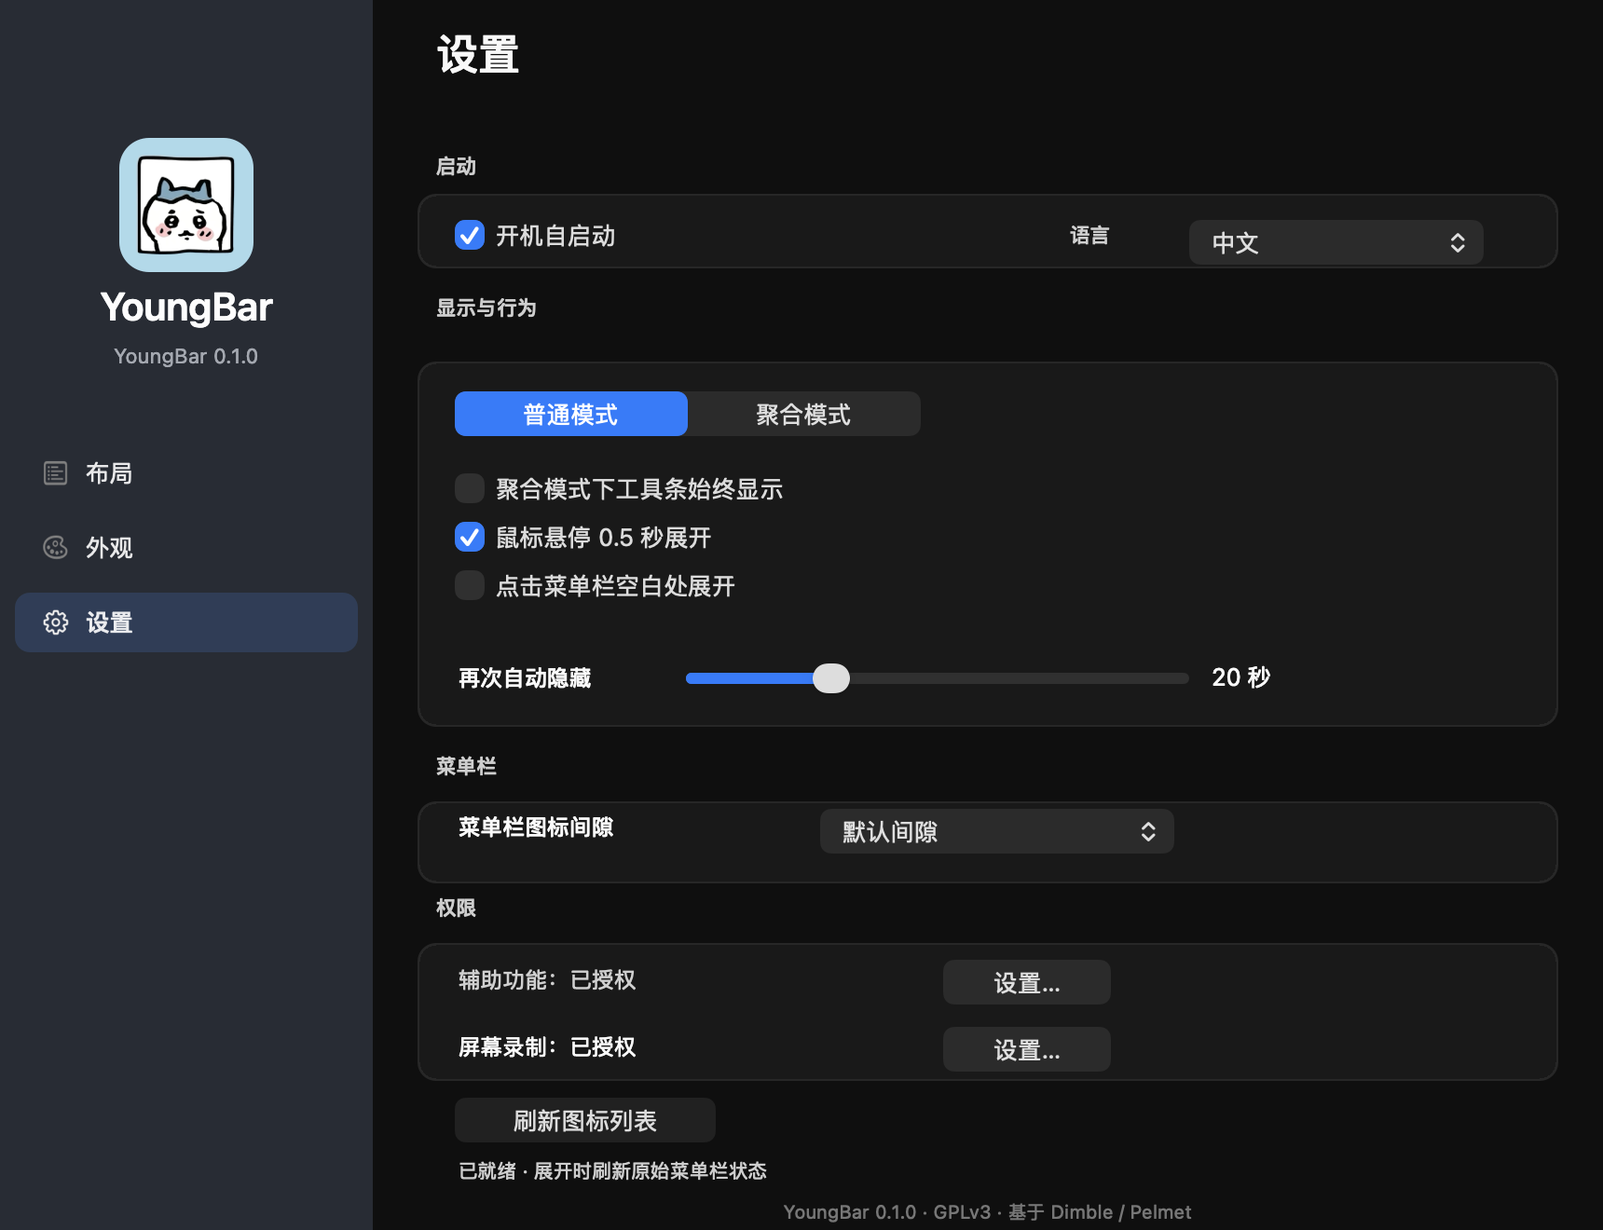
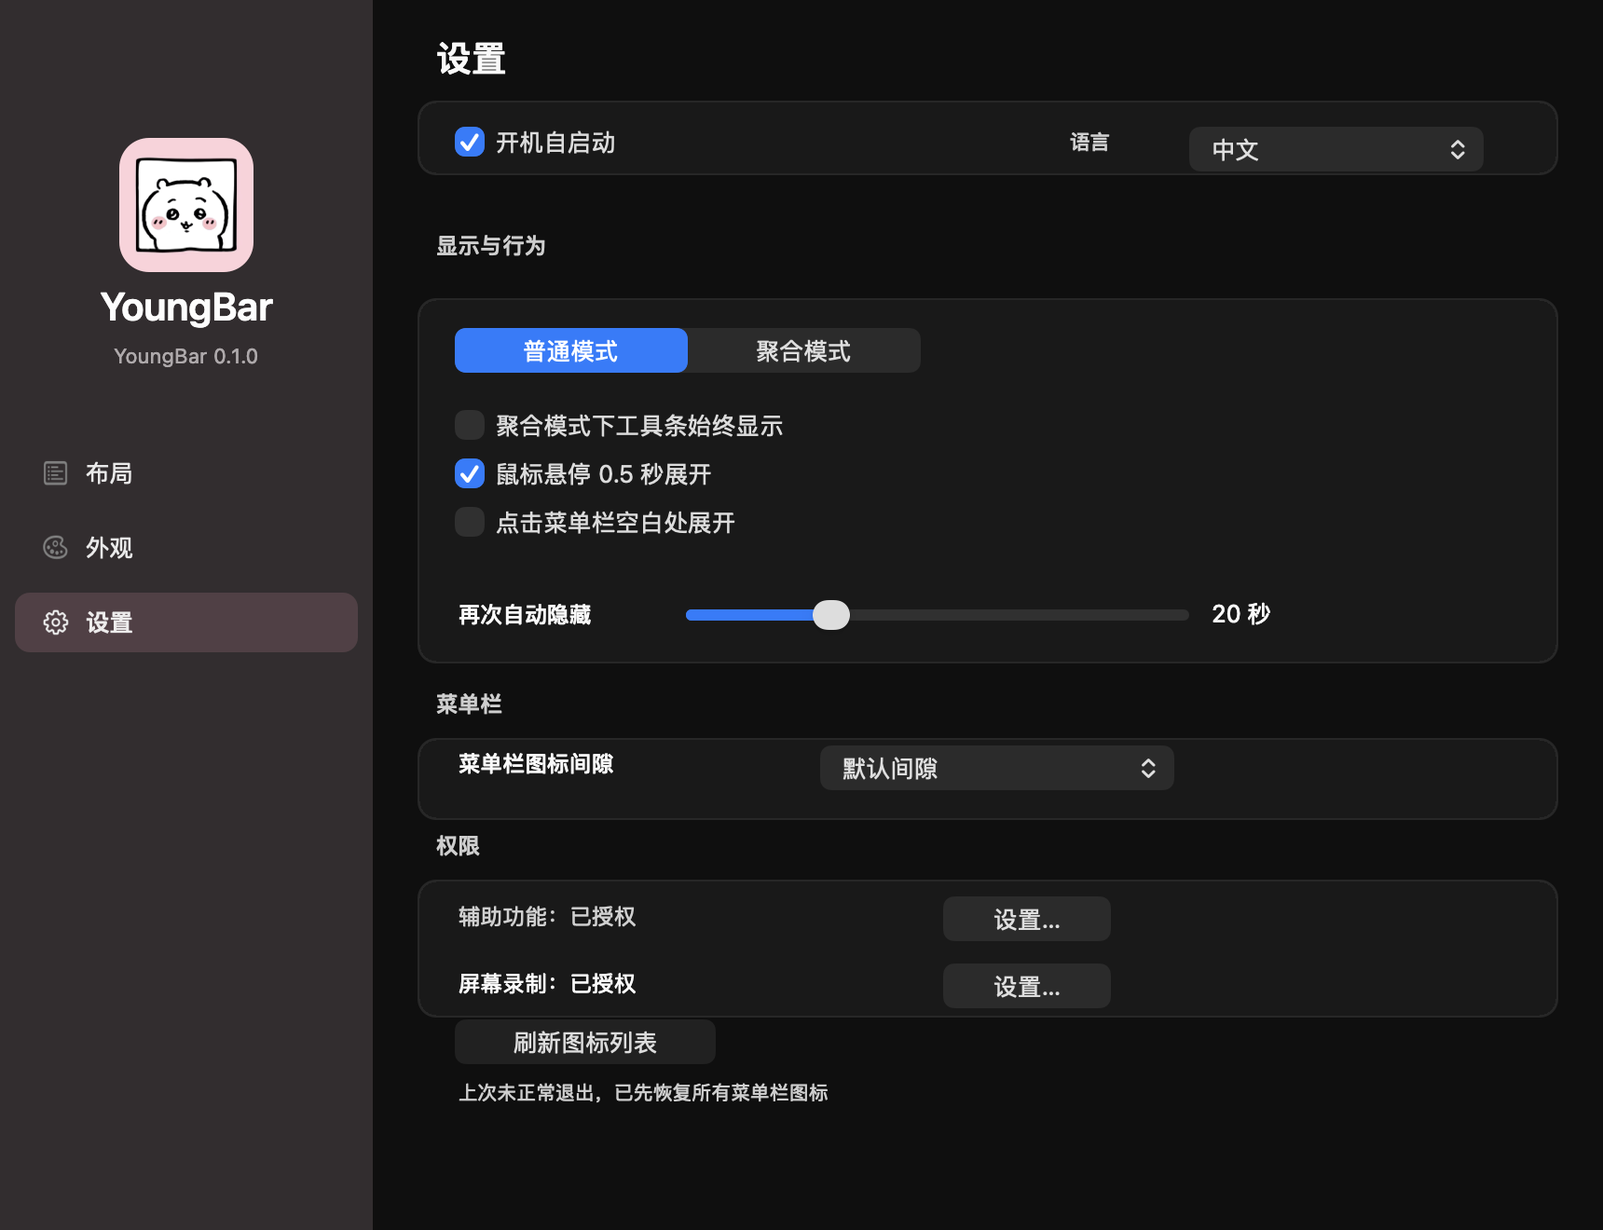
style(youngbar): 固定标题栏与外观页三块信息架构
- header 缩小到 64pt，去掉副标题和重复块标题
- 修正 NSScrollView 顶部 inset 裁切/滚动错位
- 外观页：Appearance / 菜单栏按钮 / Theme 三块
- 主题行标签/控件对齐，预览改为卡片底部居中示意
- 更新截图与第 146 轮日志

diff --git a/Sources/YoungBar/BarSettings.swift b/Sources/YoungBar/BarSettings.swift
@@ -68,7 +68,7 @@ final class BarSettings: NSObject, NSTableViewDataSource, NSTableViewDelegate {
     private let appIconView = NSImageView()
     private let headerBar = SettingsHeader()
     private let headerTitle = NSTextField(labelWithString: "")
-    private let headerSubtitle = NSTextField(labelWithString: "")
+    private let contentScroll = SettingsScrollView()
     private var colorButtons: [ThemeSwatchButton] = []
     private let preview = ThemePreviewView()
     private var iconButtons: [NSButton] = []
@@ -91,8 +91,11 @@ final class BarSettings: NSObject, NSTableViewDataSource, NSTableViewDelegate {
         window.isMovableByWindowBackground = true
         window.ignoresMouseEvents = false
         window.minSize = NSSize(width: 860, height: 560)
+        window.maxSize = NSSize(width: 860, height: 660)
         window.center()
         window.contentView = buildRoot()
+        NotificationCenter.default.addObserver(self, selector: #selector(windowResized),
+                                               name: NSWindow.didResizeNotification, object: window)
         selectPage("general")
     }
 
@@ -166,32 +169,30 @@ final class BarSettings: NSObject, NSTableViewDataSource, NSTableViewDelegate {
             navButtons[item.0] = button
         }
 
-        let content = NSView(frame: NSRect(x: 0, y: 0, width: 660, height: 692))
+        let content = NSView(frame: NSRect(x: 0, y: 0, width: 660, height: 628))
         content.wantsLayer = true
         content.layer?.backgroundColor = NSColor.clear.cgColor
 
-        let scroll = NSScrollView(frame: NSRect(x: 200, y: 0, width: 660, height: 692))
-        scroll.drawsBackground = false
-        scroll.hasVerticalScroller = true
-        scroll.autohidesScrollers = true
-        scroll.verticalScrollElasticity = .allowed
-        scroll.documentView = content
-        scroll.autoresizingMask = [.width, .height]
-        root.addSubview(scroll)
+        contentScroll.frame = NSRect(x: 200, y: 0, width: 660, height: 660)
+        contentScroll.drawsBackground = false
+        contentScroll.automaticallyAdjustsContentInsets = false
+        contentScroll.contentInsets = NSEdgeInsetsZero
+        contentScroll.scrollerInsets = NSEdgeInsets(top: 32, left: 0, bottom: 0, right: 0)
+        contentScroll.hasVerticalScroller = true
+        contentScroll.autohidesScrollers = true
+        contentScroll.verticalScrollElasticity = .allowed
+        contentScroll.documentView = content
+        contentScroll.autoresizingMask = [.width, .height]
+        root.addSubview(contentScroll)
 
-        headerBar.frame = NSRect(x: 200, y: 692 - 84, width: 660, height: 84)
+        headerBar.frame = NSRect(x: 200, y: 692 - 64, width: 660, height: 64)
         headerBar.autoresizingMask = [.width, .minYMargin]
         root.addSubview(headerBar)
 
-        headerTitle.frame = NSRect(x: 32, y: 40, width: 596, height: 30)
-        headerTitle.font = .systemFont(ofSize: 24, weight: .semibold)
+        headerTitle.frame = NSRect(x: 32, y: 19, width: 596, height: 26)
+        headerTitle.font = .systemFont(ofSize: 20, weight: .semibold)
         headerTitle.textColor = .labelColor
         headerBar.addSubview(headerTitle)
-
-        headerSubtitle.frame = NSRect(x: 32, y: 18, width: 596, height: 18)
-        headerSubtitle.font = .systemFont(ofSize: 11)
-        headerSubtitle.textColor = .secondaryLabelColor
-        headerBar.addSubview(headerSubtitle)
 
         generalPage.frame = content.bounds
         layoutPage.frame = content.bounds
@@ -208,35 +209,34 @@ final class BarSettings: NSObject, NSTableViewDataSource, NSTableViewDelegate {
     private func buildGeneralPage() {
 
         // Startup
-        generalPage.addSubview(sectionLabel(L10n.t("启动", "Startup"), y: 562))
-        generalPage.addSubview(card(y: 516, height: 40))
+        generalPage.addSubview(card(y: 566, height: 40))
         loginCheck.target = self
         loginCheck.action = #selector(loginChanged)
-        loginCheck.frame = NSRect(x: 44, y: 522, width: 300, height: 24)
+        loginCheck.frame = NSRect(x: 44, y: 572, width: 300, height: 24)
         generalPage.addSubview(loginCheck)
 
         let languageLabel = label(L10n.t("语言", "Language"),
-                                  NSRect(x: 372, y: 525, width: 62, height: 16),
+                                  NSRect(x: 372, y: 575, width: 62, height: 16),
                                   .systemFont(ofSize: 11, weight: .medium))
         languageLabel.textColor = .secondaryLabelColor
         generalPage.addSubview(languageLabel)
         languagePopup.addItems(withTitles: ["中文", "English"])
         languagePopup.target = self
         languagePopup.action = #selector(languageChanged)
-        languagePopup.frame = NSRect(x: 438, y: 516, width: 158, height: 28)
+        languagePopup.frame = NSRect(x: 438, y: 566, width: 158, height: 28)
         generalPage.addSubview(languagePopup)
 
         // Display & behaviour
-        generalPage.addSubview(sectionLabel(L10n.t("显示与行为", "Display & Behaviour"), y: 486))
-        generalPage.addSubview(card(y: 270, height: 196))
+        generalPage.addSubview(sectionLabel(L10n.t("显示与行为", "Display & Behaviour"), y: 520))
+        generalPage.addSubview(card(y: 304, height: 196))
         modeControl.target = self
         modeControl.action = #selector(modeChanged)
-        modeControl.frame = NSRect(x: 44, y: 424, width: 250, height: 28)
+        modeControl.frame = NSRect(x: 44, y: 458, width: 250, height: 28)
         modeControl.toolTip = L10n.t("聚合模式把收纳项收进一条工具条。",
                                      "Aggregate mode collects concealed items into one strip.")
         generalPage.addSubview(modeControl)
 
-        var y: CGFloat = 386
+        var y: CGFloat = 420
         for (check, key) in [(keepCheck, "keepShelfOpen"), (hoverCheck, "hoverExpand"), (blankCheck, "blankClick")] {
             check.target = self
             check.action = #selector(optionChanged(_:))
@@ -247,73 +247,66 @@ final class BarSettings: NSObject, NSTableViewDataSource, NSTableViewDelegate {
         }
 
         generalPage.addSubview(label(L10n.t("再次自动隐藏", "Auto-hide after"),
-                                     NSRect(x: 44, y: 286, width: 120, height: 18),
+                                     NSRect(x: 44, y: 320, width: 120, height: 18),
                                      .systemFont(ofSize: 12, weight: .medium)))
         delaySlider.target = self
         delaySlider.action = #selector(delayChanged)
         delaySlider.isContinuous = true
-        delaySlider.frame = NSRect(x: 168, y: 284, width: 270, height: 24)
+        delaySlider.frame = NSRect(x: 168, y: 318, width: 270, height: 24)
         delaySlider.toolTip = L10n.t("点击收纳项后，它在菜单栏上保持原生的时长。",
                                      "How long a clicked item stays native on the bar.")
         generalPage.addSubview(delaySlider)
-        delayValue.frame = NSRect(x: 448, y: 287, width: 80, height: 18)
+        delayValue.frame = NSRect(x: 448, y: 321, width: 80, height: 18)
         generalPage.addSubview(delayValue)
 
         // Menu bar
-        generalPage.addSubview(sectionLabel(L10n.t("菜单栏", "Menu Bar"), y: 240))
-        generalPage.addSubview(card(y: 186, height: 44))
+        generalPage.addSubview(sectionLabel(L10n.t("菜单栏", "Menu Bar"), y: 274))
+        generalPage.addSubview(card(y: 220, height: 44))
         generalPage.addSubview(label(L10n.t("菜单栏图标间隙", "Menu-bar icon spacing"),
-                                     NSRect(x: 44, y: 206, width: 190, height: 18),
+                                     NSRect(x: 44, y: 240, width: 190, height: 18),
                                      .systemFont(ofSize: 12, weight: .medium)))
         spacingPopup.addItems(withTitles: [L10n.t("默认间隙", "Default"), L10n.t("较小间隙", "Smaller"),
                                            L10n.t("小间隙", "Small"), L10n.t("无间隙", "None")])
         spacingPopup.target = self
         spacingPopup.action = #selector(spacingChanged)
-        spacingPopup.frame = NSRect(x: 240, y: 200, width: 190, height: 28)
+        spacingPopup.frame = NSRect(x: 240, y: 234, width: 190, height: 28)
         spacingPopup.toolTip = L10n.t("写入全局偏好，重启电脑后生效。",
                                       "Writes a global preference; takes effect after a reboot.")
         generalPage.addSubview(spacingPopup)
 
         // Permissions
-        generalPage.addSubview(sectionLabel(L10n.t("权限", "Permissions"), y: 164))
-        generalPage.addSubview(card(y: 80, height: 74))
-        axStatus.frame = NSRect(x: 44, y: 124, width: 360, height: 18)
+        generalPage.addSubview(sectionLabel(L10n.t("权限", "Permissions"), y: 198))
+        generalPage.addSubview(card(y: 114, height: 74))
+        axStatus.frame = NSRect(x: 44, y: 158, width: 360, height: 18)
         axStatus.font = .systemFont(ofSize: 12)
         axStatus.toolTip = L10n.t("权限属于 YoungBar 这个 app，不是终端或 DSH；首次使用需要在系统设置中打开。",
                                   "This permission belongs to the YoungBar app, not the terminal or DSH; enable it in System Settings on first use.")
         generalPage.addSubview(axStatus)
         axButton.target = self
         axButton.action = #selector(axTapped)
-        axButton.frame = NSRect(x: 306, y: 118, width: 90, height: 30)
+        axButton.frame = NSRect(x: 306, y: 152, width: 90, height: 30)
         generalPage.addSubview(axButton)
 
-        captureStatus.frame = NSRect(x: 44, y: 88, width: 360, height: 18)
+        captureStatus.frame = NSRect(x: 44, y: 122, width: 360, height: 18)
         captureStatus.font = .systemFont(ofSize: 12)
         captureStatus.toolTip = L10n.t("权限属于 YoungBar 这个 app；授权后可能需要重启 app 才能抓取原始图标。",
                                        "This permission belongs to the YoungBar app; restart it after granting to capture original icons.")
         generalPage.addSubview(captureStatus)
         captureButton.target = self
         captureButton.action = #selector(captureTapped)
-        captureButton.frame = NSRect(x: 306, y: 82, width: 90, height: 30)
+        captureButton.frame = NSRect(x: 306, y: 116, width: 90, height: 30)
         generalPage.addSubview(captureButton)
 
         refreshButton.target = self
         refreshButton.action = #selector(refreshTapped)
-        refreshButton.frame = NSRect(x: 44, y: 44, width: 140, height: 30)
+        refreshButton.frame = NSRect(x: 44, y: 86, width: 140, height: 30)
         generalPage.addSubview(refreshButton)
 
-        messageField.frame = NSRect(x: 44, y: 18, width: 584, height: 20)
+        messageField.frame = NSRect(x: 44, y: 60, width: 584, height: 20)
         messageField.textColor = .secondaryLabelColor
         messageField.font = .systemFont(ofSize: 10.5)
         generalPage.addSubview(messageField)
 
-        let version = label(L10n.t("YoungBar 0.1.0 · GPLv3 · 基于 Dimble / Pelmet",
-                                   "YoungBar 0.1.0 · GPLv3 · Built on Dimble / Pelmet"),
-                            NSRect(x: 32, y: 2, width: 596, height: 14),
-                            .systemFont(ofSize: 10))
-        version.alignment = .center
-        version.textColor = .tertiaryLabelColor
-        generalPage.addSubview(version)
     }
 
     private func sectionLine(y: CGFloat) -> NSBox {
@@ -379,19 +372,18 @@ final class BarSettings: NSObject, NSTableViewDataSource, NSTableViewDelegate {
 
     private func buildAppearancePage() {
         // Appearance
-        appearancePage.addSubview(sectionLabel(L10n.t("外观", "Appearance"), y: 562))
-        appearancePage.addSubview(card(y: 512, height: 44))
+        appearancePage.addSubview(card(y: 546, height: 44))
         appearanceModeControl.target = self
         appearanceModeControl.action = #selector(appearanceModeChanged)
-        appearanceModeControl.frame = NSRect(x: 44, y: 520, width: 300, height: 28)
+        appearanceModeControl.frame = NSRect(x: 44, y: 554, width: 300, height: 28)
         appearancePage.addSubview(appearanceModeControl)
 
         // Menu-bar button
-        appearancePage.addSubview(sectionLabel(L10n.t("菜单栏按钮", "Menu-bar button"), y: 486))
-        appearancePage.addSubview(card(y: 390, height: 90))
+        appearancePage.addSubview(sectionLabel(L10n.t("菜单栏按钮", "Menu-bar button"), y: 520))
+        appearancePage.addSubview(card(y: 424, height: 90))
         for (index, symbol) in ControlIcon.symbols.enumerated() {
             let button = NSButton(title: "", target: self, action: #selector(iconPicked(_:)))
-            button.frame = NSRect(x: 44 + CGFloat(index) * 54, y: 438, width: 40, height: 40)
+            button.frame = NSRect(x: 44 + CGFloat(index) * 54, y: 464, width: 40, height: 40)
             button.isBordered = false
             button.wantsLayer = true
             button.layer?.cornerRadius = 8
@@ -409,36 +401,36 @@ final class BarSettings: NSObject, NSTableViewDataSource, NSTableViewDelegate {
         customIconButton.title = L10n.t("自定义图片…", "Custom image…")
         customIconButton.target = self
         customIconButton.action = #selector(customIconTapped)
-        customIconButton.frame = NSRect(x: 44, y: 400, width: 150, height: 30)
+        customIconButton.frame = NSRect(x: 44, y: 434, width: 150, height: 30)
         appearancePage.addSubview(customIconButton)
 
         let reset = NSButton(title: L10n.t("恢复默认", "Reset"),
                              target: self, action: #selector(resetIcon))
-        reset.frame = NSRect(x: 202, y: 400, width: 100, height: 30)
+        reset.frame = NSRect(x: 202, y: 434, width: 100, height: 30)
         appearancePage.addSubview(reset)
 
         removeCustomButton.title = L10n.t("移除自定义", "Remove custom")
         removeCustomButton.target = self
         removeCustomButton.action = #selector(removeCustomTapped)
-        removeCustomButton.frame = NSRect(x: 310, y: 400, width: 120, height: 30)
+        removeCustomButton.frame = NSRect(x: 310, y: 434, width: 120, height: 30)
         appearancePage.addSubview(removeCustomButton)
 
         // Theme: palette, scope, strip and preview in one group.
-        appearancePage.addSubview(sectionLabel(L10n.t("主题", "Theme"), y: 370))
-        appearancePage.addSubview(card(y: 40, height: 322))
-        for y in [276, 204, 132] {
+        appearancePage.addSubview(sectionLabel(L10n.t("主题", "Theme"), y: 400))
+        appearancePage.addSubview(card(y: 74, height: 310))
+        for y in [298, 226, 154] {
             let line = NSBox(frame: NSRect(x: 44, y: CGFloat(y), width: 572, height: 1))
             line.boxType = .separator
             appearancePage.addSubview(line)
         }
 
-        appearancePage.addSubview(label(L10n.t("主题色", "Colour"),
-                                        NSRect(x: 44, y: 316, width: 120, height: 18),
+        appearancePage.addSubview(label(L10n.t("配色", "Colour"),
+                                        NSRect(x: 44, y: 330, width: 120, height: 18),
                                         .systemFont(ofSize: 12, weight: .medium)))
         for (index, theme) in ThemeColor.allCases.enumerated() {
             let x = 196 + CGFloat(index) * 90
             let button = ThemeSwatchButton(title: "", target: self, action: #selector(colorPicked(_:)))
-            button.frame = NSRect(x: x, y: 300, width: 46, height: 28)
+            button.frame = NSRect(x: x, y: 334, width: 46, height: 28)
             button.isBordered = false
             button.theme = theme
             button.tag = index
@@ -446,33 +438,30 @@ final class BarSettings: NSObject, NSTableViewDataSource, NSTableViewDelegate {
             button.setAccessibilityLabel(theme.title)
             colorButtons.append(button)
             appearancePage.addSubview(button)
-            let name = label(theme.title, NSRect(x: x - 22, y: 280, width: 90, height: 16),
+            let name = label(theme.title, NSRect(x: x - 22, y: 314, width: 90, height: 16),
                              .systemFont(ofSize: 10.5))
             name.alignment = .center
             name.textColor = .secondaryLabelColor
             appearancePage.addSubview(name)
         }
 
-        appearancePage.addSubview(label(L10n.t("主题应用", "Scope"),
-                                        NSRect(x: 44, y: 228, width: 120, height: 18),
+        appearancePage.addSubview(label(L10n.t("应用范围", "Apply to"),
+                                        NSRect(x: 44, y: 248, width: 120, height: 18),
                                         .systemFont(ofSize: 12, weight: .medium)))
         scopeControl.target = self
         scopeControl.action = #selector(scopeChanged)
-        scopeControl.frame = NSRect(x: 196, y: 220, width: 300, height: 28)
+        scopeControl.frame = NSRect(x: 196, y: 242, width: 300, height: 28)
         appearancePage.addSubview(scopeControl)
 
-        appearancePage.addSubview(label(L10n.t("收纳条", "Strip"),
-                                        NSRect(x: 44, y: 156, width: 120, height: 18),
+        appearancePage.addSubview(label(L10n.t("收纳条样式", "Strip style"),
+                                        NSRect(x: 44, y: 176, width: 120, height: 18),
                                         .systemFont(ofSize: 12, weight: .medium)))
         stripStyleControl.target = self
         stripStyleControl.action = #selector(stripStyleChanged)
-        stripStyleControl.frame = NSRect(x: 196, y: 148, width: 300, height: 28)
+        stripStyleControl.frame = NSRect(x: 196, y: 170, width: 300, height: 28)
         appearancePage.addSubview(stripStyleControl)
 
-        appearancePage.addSubview(label(L10n.t("预览", "Preview"),
-                                        NSRect(x: 44, y: 80, width: 120, height: 18),
-                                        .systemFont(ofSize: 12, weight: .medium)))
-        preview.frame = NSRect(x: 196, y: 66, width: 280, height: 40)
+        preview.frame = NSRect(x: 190, y: 94, width: 280, height: 40)
         appearancePage.addSubview(preview)
     }
 
@@ -512,7 +501,7 @@ final class BarSettings: NSObject, NSTableViewDataSource, NSTableViewDelegate {
     }
 
     private func sectionLabel(_ text: String, y: CGFloat) -> NSTextField {
-        let field = label(text, NSRect(x: 32, y: y, width: 300, height: 16), .systemFont(ofSize: 11, weight: .semibold))
+        let field = label(text, NSRect(x: 32, y: y, width: 300, height: 16), .systemFont(ofSize: 12, weight: .semibold))
         field.textColor = .secondaryLabelColor
         return field
     }
@@ -537,6 +526,13 @@ final class BarSettings: NSObject, NSTableViewDataSource, NSTableViewDelegate {
         selectPage(id)
     }
 
+    @objc private func windowResized() {
+        guard let document = contentScroll.documentView else { return }
+        let top = max(0, document.frame.height - contentScroll.contentView.bounds.height)
+        contentScroll.contentView.scroll(to: NSPoint(x: 0, y: top))
+        contentScroll.reflectScrolledClipView(contentScroll.contentView)
+    }
+
     private func selectPage(_ id: String) {
         currentPage = id
         generalPage.isHidden = id != "general"
@@ -546,18 +542,11 @@ final class BarSettings: NSObject, NSTableViewDataSource, NSTableViewDelegate {
         switch id {
         case "layout":
             headerTitle.stringValue = L10n.t("布局", "Layout")
-            headerSubtitle.stringValue = L10n.t("拖动行调整从左到右的顺序；勾选决定每一项的可见方式。",
-                                                "Drag rows to set the left-to-right order; tick how each item should appear.")
-            headerSubtitle.isHidden = false
             table.reloadData()
         case "appearance":
             headerTitle.stringValue = L10n.t("外观", "Appearance")
-            headerSubtitle.stringValue = ""
-            headerSubtitle.isHidden = true
         default:
             headerTitle.stringValue = L10n.t("设置", "Settings")
-            headerSubtitle.stringValue = ""
-            headerSubtitle.isHidden = true
         }
     }
 
@@ -838,6 +827,30 @@ final class LayoutRowView: NSTableRowView {
         let path = NSBezierPath(roundedRect: rect, xRadius: 8, yRadius: 8)
         NSColor.controlAccentColor.withAlphaComponent(0.16).setFill()
         path.fill()
+    }
+}
+
+@MainActor
+final class SettingsScrollView: NSScrollView {
+    override func viewDidMoveToWindow() {
+        super.viewDidMoveToWindow()
+        normalizeInsets()
+    }
+
+    override func layout() {
+        super.layout()
+        normalizeInsets()
+    }
+
+    private func normalizeInsets() {
+        automaticallyAdjustsContentInsets = false
+        if contentInsets.top != 0 || contentInsets.bottom != 0 ||
+            contentInsets.left != 0 || contentInsets.right != 0 {
+            contentInsets = NSEdgeInsetsZero
+        }
+        if scrollerInsets.top != 0 || scrollerInsets.bottom != 0 {
+            scrollerInsets = NSEdgeInsetsZero
+        }
     }
 }
 

diff --git a/Sources/YoungBar/Theme.swift b/Sources/YoungBar/Theme.swift
@@ -84,7 +84,7 @@ enum ThemeScope: Int, CaseIterable {
 
     var title: String {
         switch self {
-        case .both: return L10n.t("界面 + 收纳条", "Both")
+        case .both: return L10n.t("全部", "All")
         case .interfaceOnly: return L10n.t("仅界面", "Interface only")
         case .stripOnly: return L10n.t("仅收纳条", "Strip only")
         }
